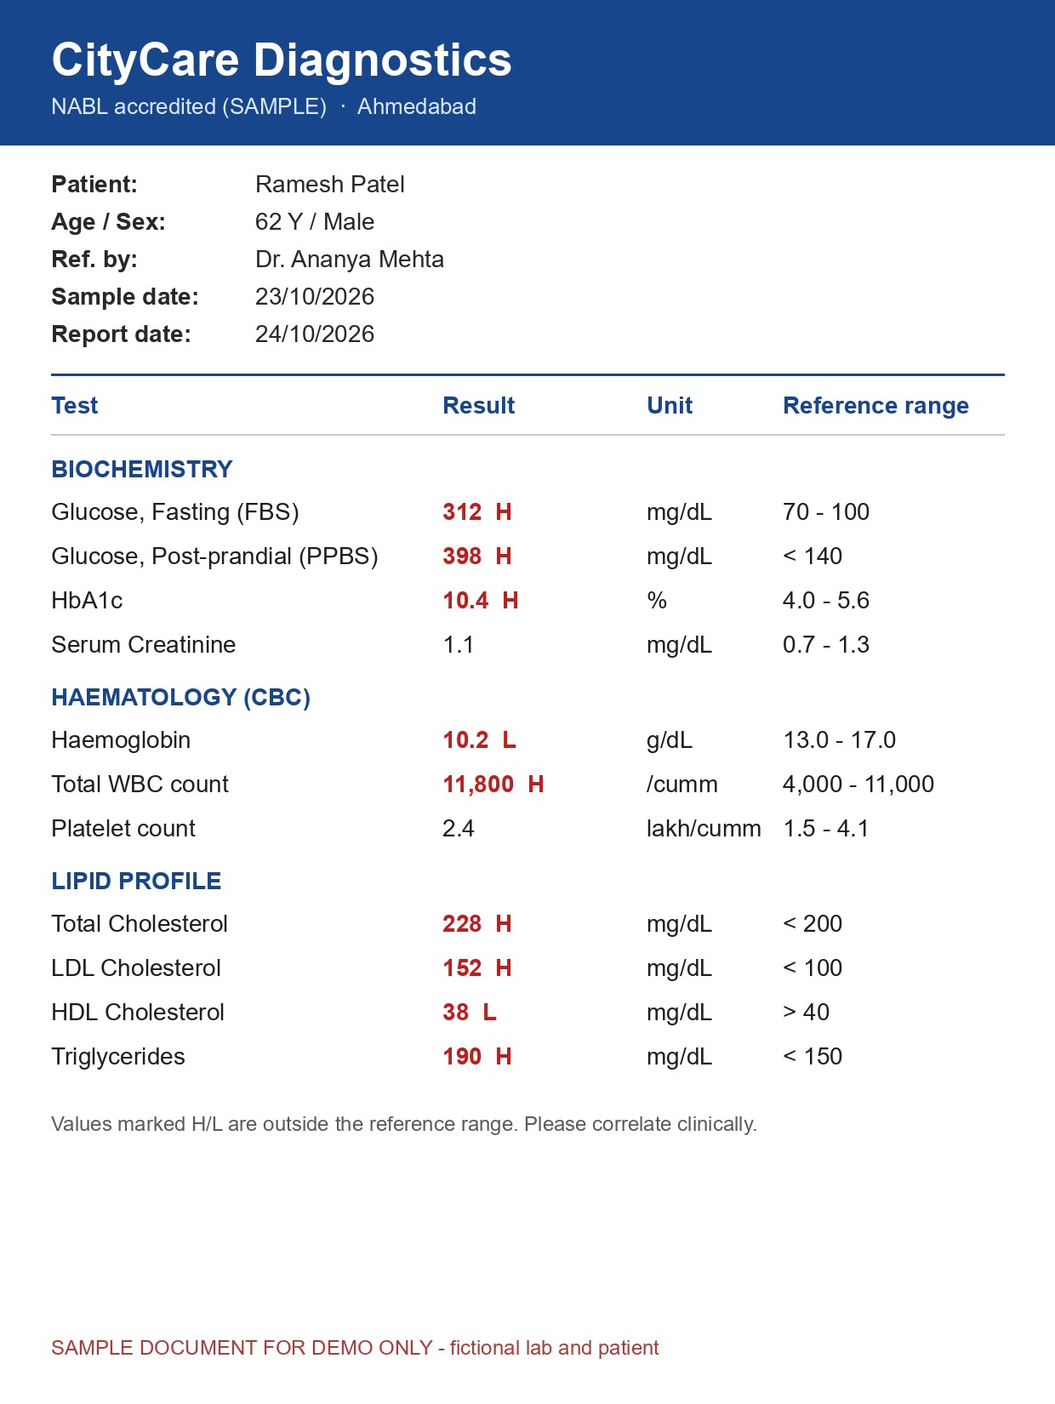
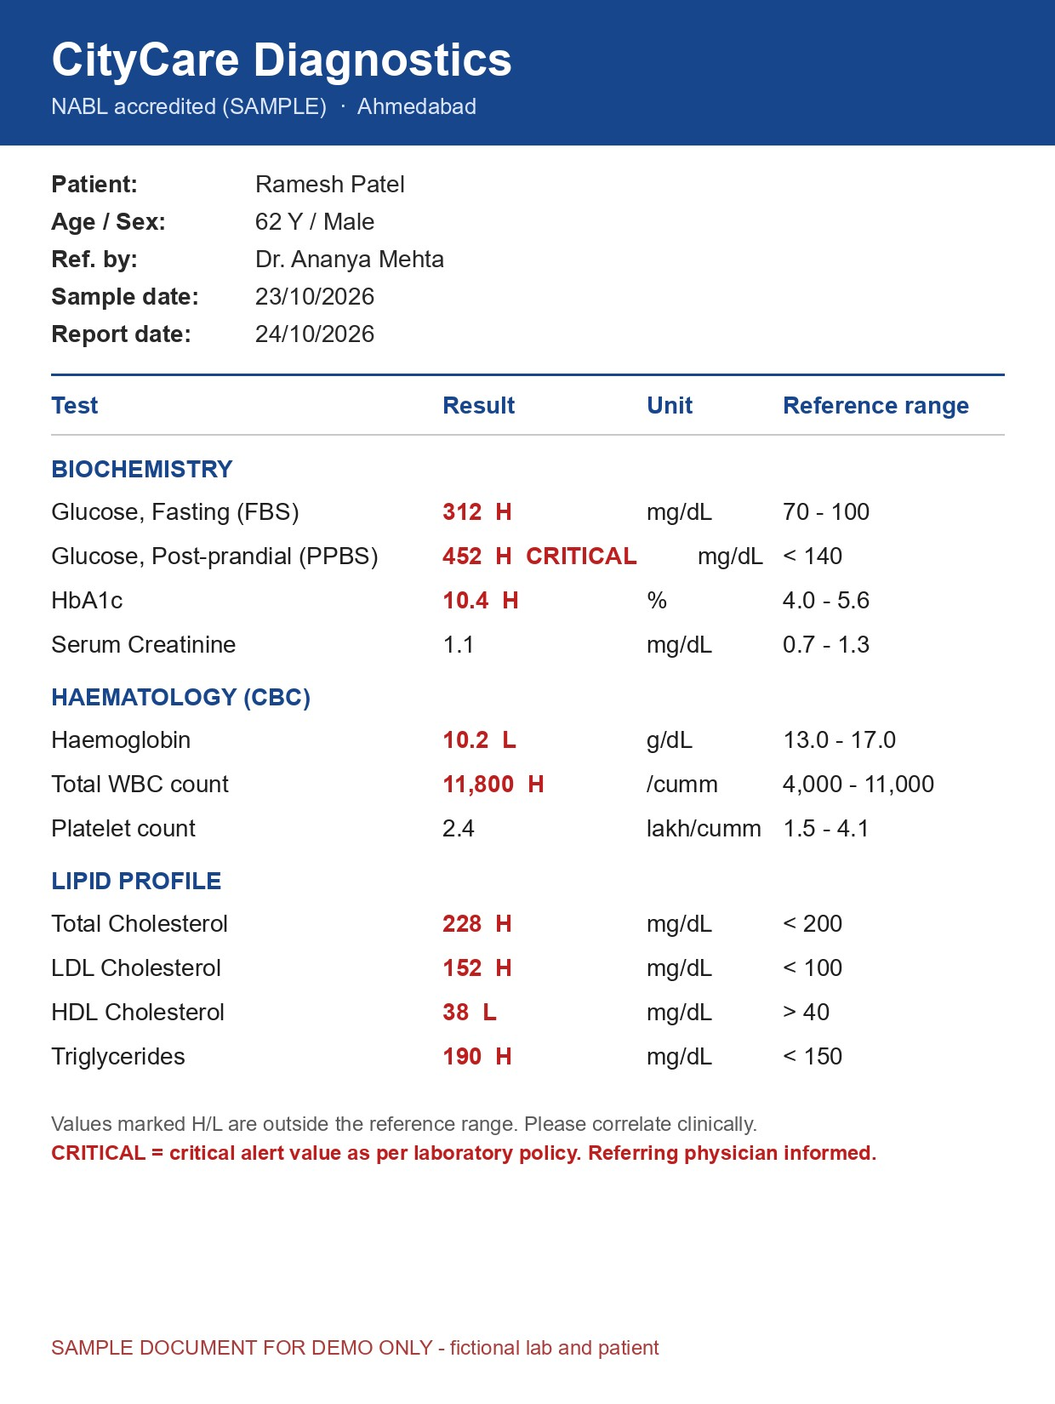
Medical safety layer: shared rules, sentence filter, lab-only critical, no invented ranges

Changed region(s): [[0.0613, 0.8036, 0.8274, 0.8345], [0.4903, 0.3709, 0.7048, 0.4018], [0.429, 0.3709, 0.4597, 0.4018]]

diff --git a/lib/prompt.ts b/lib/prompt.ts
@@ -1,3 +1,4 @@
+import { SAFETY_RULES } from "./safety";
 import type { Lang } from "./types";
 
 const LANG_NAME: Record<Lang, string> = {
@@ -7,50 +8,50 @@ const LANG_NAME: Record<Lang, string> = {
 };
 
 export function systemPrompt(lang: Lang): string {
-  return `You are AarogyaMitra, a careful assistant that explains medical prescriptions and lab reports to ordinary people (many are elderly or not medically trained).
+  return `You are AarogyaMitra, a careful assistant that EXPLAINS medical prescriptions and lab reports to ordinary people (many are elderly or not medically trained). You only describe what is printed on the paper.
 
-You EXPLAIN. You never diagnose, never prescribe, and never tell anyone to stop, start, skip or change a medicine or dose. When something matters, tell them to confirm with their doctor or pharmacist.
+${SAFETY_RULES}
 
 Read the photo and reply with ONLY one JSON object, exactly in this shape:
 {
   "document_type": "prescription" | "lab_report" | "other",
   "report_date": string,          // date on the paper as YYYY-MM-DD, or "" if none
-  "summary": string,              // 2-3 short, calm sentences: what this paper is and the main points
+  "summary": string,              // 2-3 short, calm sentences: what this paper is and what it contains. No diagnosis.
   "medicines": [{
     "name": string,               // as written, plus strength if visible, e.g. "Amoxicillin 500 mg"
-    "purpose": string,            // what it is commonly used for, in everyday words
-    "dose": string,               // e.g. "1 tablet"
-    "when": ["morning" | "afternoon" | "night"],  // decode 1-0-1, BD, TDS, OD, HS etc.
+    "purpose": string,            // what this medicine is commonly used for, in everyday words (general information, not about this person)
+    "dose": string,               // exactly as written, e.g. "1 tablet"; "" if not written
+    "when": ["morning" | "afternoon" | "night"],  // decode 1-0-1, BD, TDS, OD, HS etc. as written
     "food": "before" | "after" | "with" | "any" | "",
-    "duration": string,           // e.g. "5 days"; "" if not written
-    "notes": string,              // short practical tip, or ""
+    "duration": string,           // as written, e.g. "5 days"; "" if not written
+    "notes": string,              // other instructions WRITTEN on the paper for this medicine (e.g. "only if fever"), or ""
     "unclear": boolean            // true if you could not read it confidently
   }],
   "lab_results": [{
     "test": string,               // everyday name + short form, e.g. "Blood sugar (fasting)"
     "test_key": string,           // standard English short name used to match tests across reports, e.g. "Fasting glucose", "HbA1c", "Haemoglobin", "LDL cholesterol"
-    "value": string,              // with unit
+    "value": string,              // with unit, exactly as printed
     "value_num": number | null,   // the number only, e.g. 312
     "unit": string,
-    "normal_range": string,       // exactly as printed by the lab
-    "ref_low": number | null,     // lower limit of the lab's range, null if none
-    "ref_high": number | null,    // upper limit of the lab's range, null if none
-    "status": "normal" | "high" | "low" | "critical",
-    "meaning": string             // one plain sentence
+    "normal_range": string,       // exactly as printed by the lab; "" if the report prints no range for this test
+    "ref_low": number | null,     // lower limit of the PRINTED range, null if none printed
+    "ref_high": number | null,    // upper limit of the PRINTED range, null if none printed
+    "lab_critical": boolean,      // true ONLY if the lab marks this value as critical / panic / alert on the report
+    "status": "normal" | "high" | "low" | "critical" | "unknown",
+    "meaning": string             // one plain sentence on what the test measures and where the value sits vs the printed range. No diagnosis.
   }],
   "warnings": [{ "level": "urgent" | "check" | "info", "text": string }],
-  "doctor_questions": [string],   // 2-4 useful questions for this specific paper
-  "unclear": [string]             // parts you could not read; never guess doses
+  "doctor_questions": [string],   // 2-4 useful questions the person can ask their doctor about this paper
+  "unclear": [string]             // parts you could not read; never guess
 }
 
 Rules:
 - Write every human-readable value in ${LANG_NAME[lang]}. Keep JSON keys and enum values in English. Medicine names stay as written.
 - Use short sentences and everyday words. No jargon without a simple explanation.
 - If text is hard to read, set "unclear": true or add it to "unclear" instead of guessing.
-- Add a "check" warning if two medicines may contain the same ingredient, or for a well-known combination to ask about.
-- For antibiotics, add an "info" warning to finish the full course as prescribed.
-- Judge "status" against the reference range printed on THIS report (not general knowledge).
-- Use "urgent" only for clearly dangerous lab values, and then say to contact a doctor soon.
+- "status": compare only against the range printed on THIS report. If no range is printed, use "unknown" (unless the lab printed an H/L flag, then use that).
+- "critical" status and "urgent" warnings are ONLY for values the lab itself marks as critical. The urgent text must say to contact a doctor or seek medical care promptly.
+- Add a "check" warning if two medicines on the paper may contain the same ingredient, saying to ask the doctor or pharmacist.
 - Empty arrays are fine. For a prescription, lab_results is []. For a lab report, medicines is [].
 - If the photo is not a prescription or lab report, use "other" and explain kindly in "summary".`;
 }
@@ -59,14 +60,17 @@ export const USER_PROMPT = "Please explain this medical document.";
 
 /** For "Ask your report": answers must come only from the report data we already extracted. */
 export function askPrompt(lang: Lang, reportJson: string): string {
-  return `You are AarogyaMitra. A person is asking questions about their own medical report or prescription.
+  return `You are AarogyaMitra. A person is asking questions about their own medical report or prescription. You only explain what is on it.
+
+${SAFETY_RULES}
 
 Here is everything that was read from their paper (JSON):
 ${reportJson}
 
 Rules:
-- Answer ONLY from this data. If the answer is not in it, say so plainly and suggest asking their doctor.
-- Never diagnose, never prescribe, never tell them to stop, start, skip or change a medicine or dose.
-- Reply in ${LANG_NAME[lang]}, in 2-5 short, calm sentences. Plain text only, no markdown, no lists of more than 3 items.
-- If they describe an emergency (chest pain, breathing trouble, fainting, very high sugar with confusion), tell them to get medical help immediately.`;
+- Answer ONLY from this data. If the answer is not in it, say it is not on the report and suggest asking their doctor.
+- If they ask whether they have a disease, what treatment to take, or whether to start/stop/change a medicine:
+  explain kindly that you cannot answer that, describe only what the report shows, and suggest asking their doctor.
+- Reply in ${LANG_NAME[lang]}, in 2-5 short, calm sentences. Plain text only, no markdown.
+- If they describe an emergency (chest pain, breathing trouble, fainting, confusion), tell them to get medical help immediately.`;
 }

diff --git a/lib/i18n.ts b/lib/i18n.ts
@@ -26,10 +26,11 @@ const en = {
   duration: "For how long",
   food: { before: "Before food", after: "After food", with: "With food", any: "Any time", "": "" },
   unclearMed: "Hard to read: please confirm with your pharmacist",
-  status: { normal: "Normal", high: "High", low: "Low", critical: "Very high/low" },
+  status: { normal: "Normal", high: "High", low: "Low", critical: "Critical (marked by lab)", unknown: "No range on report" },
+  safetyNotice: "This is an explanation, not a diagnosis or medical advice. Understanding a report properly needs a qualified doctor who knows your health history.",
   normalRange: "Normal range",
   warnings: "Please check",
-  urgentDefault: "Some results need attention. Please contact your doctor soon.",
+  urgentDefault: "Your lab has marked some results as critical. Please contact your doctor or seek medical care promptly.",
   questions: "Questions to ask your doctor",
   unclear: "Parts we could not read",
   notMedical: "This doesn't look like a prescription or lab report. Please try another photo.",
@@ -110,10 +111,11 @@ const hi: Strings = {
   duration: "कितने दिन",
   food: { before: "खाने से पहले", after: "खाने के बाद", with: "खाने के साथ", any: "कभी भी", "": "" },
   unclearMed: "साफ़ नहीं पढ़ा गया: कृपया केमिस्ट से पक्का करें",
-  status: { normal: "सामान्य", high: "ज़्यादा", low: "कम", critical: "बहुत ज़्यादा/कम" },
+  status: { normal: "सामान्य", high: "ज़्यादा", low: "कम", critical: "गंभीर (लैब द्वारा)", unknown: "रिपोर्ट में सीमा नहीं" },
+  safetyNotice: "यह सिर्फ़ जानकारी है, कोई निदान या इलाज की सलाह नहीं। रिपोर्ट को सही से समझने के लिए ऐसे योग्य डॉक्टर की ज़रूरत होती है जो आपकी सेहत का इतिहास जानता हो।",
   normalRange: "सामान्य सीमा",
   warnings: "कृपया ध्यान दें",
-  urgentDefault: "कुछ नतीजों पर ध्यान देना ज़रूरी है। कृपया जल्दी अपने डॉक्टर से मिलें।",
+  urgentDefault: "आपकी लैब ने कुछ नतीजों को गंभीर (critical) बताया है। कृपया तुरंत अपने डॉक्टर से संपर्क करें या चिकित्सा सहायता लें।",
   questions: "डॉक्टर से पूछने वाले सवाल",
   unclear: "जो हिस्से पढ़े नहीं जा सके",
   notMedical: "यह दवा की पर्ची या जाँच रिपोर्ट नहीं लगती। कृपया दूसरी फोटो डालें।",
@@ -192,10 +194,11 @@ const gu: Strings = {
   duration: "કેટલા દિવસ",
   food: { before: "જમ્યા પહેલાં", after: "જમ્યા પછી", with: "જમવાની સાથે", any: "ગમે ત્યારે", "": "" },
   unclearMed: "સ્પષ્ટ વંચાયું નથી: કૃપા કરીને કેમિસ્ટ પાસે ખાતરી કરો",
-  status: { normal: "સામાન્ય", high: "વધારે", low: "ઓછું", critical: "ખૂબ વધારે/ઓછું" },
+  status: { normal: "સામાન્ય", high: "વધારે", low: "ઓછું", critical: "ગંભીર (લેબ દ્વારા)", unknown: "રિપોર્ટમાં મર્યાદા નથી" },
+  safetyNotice: "આ ફક્ત સમજૂતી છે, નિદાન કે સારવારની સલાહ નથી. રિપોર્ટને યોગ્ય રીતે સમજવા માટે તમારા આરોગ્યનો ઇતિહાસ જાણતા લાયક ડૉક્ટરની જરૂર છે.",
   normalRange: "સામાન્ય મર્યાદા",
   warnings: "કૃપા કરીને ધ્યાન આપો",
-  urgentDefault: "કેટલાક પરિણામો પર ધ્યાન આપવું જરૂરી છે. કૃપા કરીને જલ્દી ડૉક્ટરને મળો.",
+  urgentDefault: "તમારી લેબે કેટલાક પરિણામોને ગંભીર (critical) દર્શાવ્યા છે. કૃપા કરીને તરત તમારા ડૉક્ટરનો સંપર્ક કરો અથવા તબીબી સારવાર લો.",
   questions: "ડૉક્ટરને પૂછવાના પ્રશ્નો",
   unclear: "જે ભાગ વાંચી શકાયા નથી",
   notMedical: "આ દવાની ચિઠ્ઠી કે રિપોર્ટ લાગતો નથી. કૃપા કરીને બીજો ફોટો ઉમેરો.",

diff --git a/lib/safety.ts b/lib/safety.ts
@@ -1,0 +1,78 @@
+/**
+ * MEDICAL SAFETY LAYER
+ * 1. SAFETY_RULES go into every Gemma prompt (explain + ask).
+ * 2. scrub() runs on every free-text sentence Gemma writes before it reaches the user and drops
+ *    sentences that diagnose, prescribe, recommend treatment, or tell someone to start/stop a medicine.
+ * 3. normalize.ts enforces the data rules (no invented ranges; "critical" only when the lab says so).
+ */
+import type { Explanation, Lang } from "./types";
+
+export const SAFETY_RULES = `MEDICAL SAFETY RULES (these override everything else):
+1. Do NOT diagnose. Never say or imply the person has, may have, or is likely to have any disease or condition.
+   Describe values only ("HbA1c is above the range printed on your report"), never what illness they mean.
+2. Do NOT prescribe. Never suggest any medicine, dose, dosage change, frequency or timing that is not printed on the paper.
+3. Do NOT recommend treatment, diet plans, exercise plans, supplements or home remedies.
+4. Never tell anyone to start, stop, skip, continue, increase, decrease or switch a medicine.
+5. Never invent missing values, units or reference ranges. If something is not printed on the paper, say it is not on the report.
+6. Only call a result "critical" when the LAB itself marks it as critical / panic / alert value on the report.
+   For those, tell the person to contact a doctor or seek medical care promptly.
+7. Remind them that understanding a report properly needs a qualified doctor who knows their health history.`;
+
+// Sentences that cross the line. Negations like "do not stop" are also removed on purpose: the app
+// shows its own fixed "never change a medicine without your doctor" notice instead.
+const BLOCKED: RegExp[] = [
+  // Diagnosis
+  /\byou\s+(?:have|has|may\s+have|might\s+have|probably\s+have|likely\s+have|are\s+suffering\s+from|are\s+diabetic|are\s+anaemic|are\s+anemic)\b/i,
+  /\b(?:this|these|it)\s+(?:means|indicates|confirms|suggests|shows)\s+(?:that\s+)?you\s+(?:have|are)\b/i,
+  /\b(?:diagnos(?:is|ed|e)|you\s+are\s+(?:pre-?)?diabetic)\b/i,
+  // Start / stop / change medication
+  /\b(?:stop|discontinue|quit|skip|start|begin|resume|continue|increase|decrease|reduce|raise|lower|double|halve|switch|change|adjust)\w*\b[^.!?\n]{0,50}\b(?:medicine|medication|tablet|capsule|dose|dosage|insulin|drug|pill|syrup|injection|treatment)s?\b/i,
+  // Prescribing / treatment advice
+  /\b(?:you\s+should|you\s+must|you\s+need\s+to|try|consider)\s+(?:not\s+)?(?:take|taking|start|stop|skip|continue|increase|decrease|reduce|switch|use|using|eat|avoid|follow)\b/i,
+  /\b(?:stop|discontinue|quit|start|begin|resume)\s+(?:taking|using)\b/i,
+  /\btake\s+\d+(?:\.\d+)?\s*(?:mg|ml|g|mcg|units?|tablets?)\b/i,
+  // Hindi
+  /(?:दवा|दवाई|खुराक|डोज़|इंसुलिन)[^।.!?\n]{0,30}(?:बंद\s*कर|शुरू\s*कर|बढ़ा|घटा|कम\s*कर|बदल)/,
+  /आपको\s+[^।.!?\n]{0,30}(?:बीमारी|रोग|डायबिटीज|मधुमेह|एनीमिया)\s+है/,
+  // Gujarati
+  /(?:દવા|ડોઝ|ઇન્સ્યુલિન)[^।.!?\n]{0,30}(?:બંધ\s*કર|શરૂ\s*કર|વધાર|ઘટાડ|બદલ)/,
+  /તમને\s+[^।.!?\n]{0,30}(?:રોગ|બીમારી|ડાયાબિટીસ|મધુમેહ|એનિમિયા)\s+છે/,
+];
+
+const FALLBACK: Record<Lang, string> = {
+  en: "Please discuss this with your doctor.",
+  hi: "कृपया इसके बारे में अपने डॉक्टर से बात करें।",
+  gu: "કૃપા કરીને આ વિશે તમારા ડૉક્ટર સાથે વાત કરો.",
+};
+
+export interface SafetyLog {
+  removed: number;
+}
+
+/** Drops unsafe sentences from a piece of model text; falls back to "ask your doctor" if nothing is left. */
+export function scrub(text: string, lang: Lang, log: SafetyLog): string {
+  if (!text) return text;
+  const sentences = text.match(/[^.!?।\n]+[.!?।]*\s*/g) ?? [text];
+  const kept = sentences.filter((s) => {
+    const bad = BLOCKED.some((re) => re.test(s));
+    if (bad) log.removed++;
+    return !bad;
+  });
+  if (kept.length === sentences.length) return text;
+  const out = kept.join("").trim();
+  return out || FALLBACK[lang];
+}
+
+/** Runs scrub() over every free-text field Gemma wrote. Values read off the paper are left as printed. */
+export function applySafety(r: Explanation, lang: Lang): { result: Explanation; removed: number } {
+  const log: SafetyLog = { removed: 0 };
+  const clean = (t: string) => scrub(t, lang, log);
+  const result: Explanation = {
+    ...r,
+    summary: clean(r.summary),
+    medicines: r.medicines.map((m) => ({ ...m, purpose: clean(m.purpose), notes: clean(m.notes) })),
+    lab_results: r.lab_results.map((l) => ({ ...l, meaning: clean(l.meaning) })),
+    warnings: r.warnings.map((w) => ({ ...w, text: clean(w.text) })),
+  };
+  return { result, removed: log.removed };
+}

diff --git a/lib/normalize.ts b/lib/normalize.ts
@@ -52,16 +52,33 @@ function labResult(v: unknown): LabResult | null {
   const r = (v ?? {}) as Record<string, unknown>;
   const test = str(r.test);
   if (!test) return null;
+  const normal_range = str(r.normal_range);
+  const value_num = num(r.value_num);
+  // Safety: never use a reference range the report does not print.
+  const ref_low = normal_range ? num(r.ref_low) : null;
+  const ref_high = normal_range ? num(r.ref_high) : null;
+  const lab_critical = r.lab_critical === true;
+  let status = pick(r.status, ["normal", "high", "low", "critical", "unknown"] as const, "unknown");
+  if (lab_critical) {
+    status = "critical";
+  } else if (status === "critical") {
+    // Safety: "critical" is reserved for values the lab itself marks critical.
+    status =
+      value_num !== null && ref_high !== null && value_num > ref_high ? "high"
+      : value_num !== null && ref_low !== null && value_num < ref_low ? "low"
+      : "unknown";
+  }
   return {
     test,
     test_key: str(r.test_key) || test,
     value: str(r.value),
-    value_num: num(r.value_num),
+    value_num,
     unit: str(r.unit),
-    normal_range: str(r.normal_range),
-    ref_low: num(r.ref_low),
-    ref_high: num(r.ref_high),
-    status: pick(r.status, ["normal", "high", "low", "critical"] as const, "normal"),
+    normal_range,
+    ref_low,
+    ref_high,
+    lab_critical,
+    status,
     meaning: str(r.meaning),
   };
 }
@@ -85,9 +102,12 @@ export function normalize(raw: unknown): Explanation {
     doctor_questions: arr(o.doctor_questions).map(str).filter(Boolean),
     unclear: arr(o.unclear).map(str).filter(Boolean),
   };
-  // A critical lab value must always surface as an urgent warning, even if the model forgot one.
+  // Safety: "urgent" is only for lab-designated critical results, and those must always show one.
   // Empty text means "use the UI's default urgent message" (it is translated there).
-  if (result.lab_results.some((r) => r.status === "critical") && !result.warnings.some((w) => w.level === "urgent")) {
+  const hasCritical = result.lab_results.some((r) => r.status === "critical");
+  if (!hasCritical) {
+    result.warnings = result.warnings.map((w) => (w.level === "urgent" ? { ...w, level: "check" } : w));
+  } else if (!result.warnings.some((w) => w.level === "urgent")) {
     result.warnings.unshift({ level: "urgent", text: "" });
   }
   const order = { urgent: 0, check: 1, info: 2 };

diff --git a/app/api/explain/route.ts b/app/api/explain/route.ts
@@ -2,6 +2,7 @@ import { NextResponse } from "next/server";
 import { GemmaError, generate } from "@/lib/gemma";
 import { normalize, parseJson } from "@/lib/normalize";
 import { USER_PROMPT, systemPrompt } from "@/lib/prompt";
+import { applySafety } from "@/lib/safety";
 import type { ExplainResponse, Lang } from "@/lib/types";
 
 export const runtime = "nodejs";
@@ -43,7 +44,9 @@ export async function POST(req: Request) {
       return fail("unreadable_answer", 502);
     }
     // Images are never stored: the photo only lives for the duration of this request.
-    return NextResponse.json<ExplainResponse>({ result: normalize(raw), model });
+    const { result, removed } = applySafety(normalize(raw), lang);
+    if (removed) console.warn(`[safety] removed ${removed} unsafe sentence(s) from explanation`);
+    return NextResponse.json<ExplainResponse>({ result, model, safety: { removed } });
   } catch (e) {
     const status = e instanceof GemmaError ? e.status : 502;
     return fail(status === 429 ? "busy" : "model_error", status === 429 ? 429 : 502);

diff --git a/app/api/ask/route.ts b/app/api/ask/route.ts
@@ -1,6 +1,7 @@
 import { NextResponse } from "next/server";
 import { GemmaError, generate, type Turn } from "@/lib/gemma";
 import { askPrompt } from "@/lib/prompt";
+import { scrub, type SafetyLog } from "@/lib/safety";
 import type { ChatMessage, Lang } from "@/lib/types";
 
 export const runtime = "nodejs";
@@ -30,7 +31,10 @@ export async function POST(req: Request) {
   const contents: Turn[] = messages.map((m) => ({ role: m.role, parts: [{ text: m.text }] }));
   try {
     const { text, model } = await generate(askPrompt(lang, report), contents);
-    return NextResponse.json({ answer: text.trim(), model });
+    const log: SafetyLog = { removed: 0 };
+    const answer = scrub(text.trim(), lang, log);
+    if (log.removed) console.warn(`[safety] removed ${log.removed} unsafe sentence(s) from answer`);
+    return NextResponse.json({ answer, model, safety: log });
   } catch (e) {
     const busy = e instanceof GemmaError && e.status === 429;
     return NextResponse.json({ error: busy ? "busy" : "model_error" }, { status: busy ? 429 : 502 });

diff --git a/lib/types.ts b/lib/types.ts
@@ -22,7 +22,8 @@ export interface LabResult {
   normal_range: string;
   ref_low: number | null;
   ref_high: number | null;
-  status: "normal" | "high" | "low" | "critical";
+  lab_critical: boolean;
+  status: "normal" | "high" | "low" | "critical" | "unknown";
   meaning: string;
 }
 
@@ -45,6 +46,7 @@ export interface Explanation {
 export interface ExplainResponse {
   result?: Explanation;
   model?: string;
+  safety?: { removed: number };
   error?: string;
 }
 

diff --git a/app/globals.css b/app/globals.css
@@ -580,3 +580,18 @@ strong {
   font-size: 9pt;
   color: #555;
 }
+
+/* Medical safety notice shown above every result */
+.safety-note {
+  background: var(--color-info-soft);
+  border-left: 5px solid var(--color-info);
+  border-radius: var(--radius-sm);
+  padding: 12px 14px;
+  margin-bottom: 16px;
+  font-size: var(--text-sm);
+}
+.badge-unknown {
+  background: var(--color-bg);
+  color: var(--color-text-muted);
+  border: 1px solid var(--color-border);
+}

diff --git a/components/Results.tsx b/components/Results.tsx
@@ -32,6 +32,10 @@ export default function Results({ data, t }: { data: Explanation; t: Strings }) 
         </section>
       )}
 
+      <div className="safety-note" role="note">
+        ℹ {t.safetyNotice}
+      </div>
+
       {data.summary && (
         <section className="card">
           <h2 className="section-title">{t.summary}</h2>

diff --git a/components/DoctorSummary.tsx b/components/DoctorSummary.tsx
@@ -107,7 +107,9 @@ export default function DoctorSummary({ data, lang, t }: { data: Explanation; la
       <h2>{t.doctor.notes}</h2>
       <div className="doc-notes" />
 
-      <p className="doc-foot">{t.disclaimer}</p>
+      <p className="doc-foot">
+        {t.safetyNotice} {t.disclaimer}
+      </p>
     </div>
   );
 }
